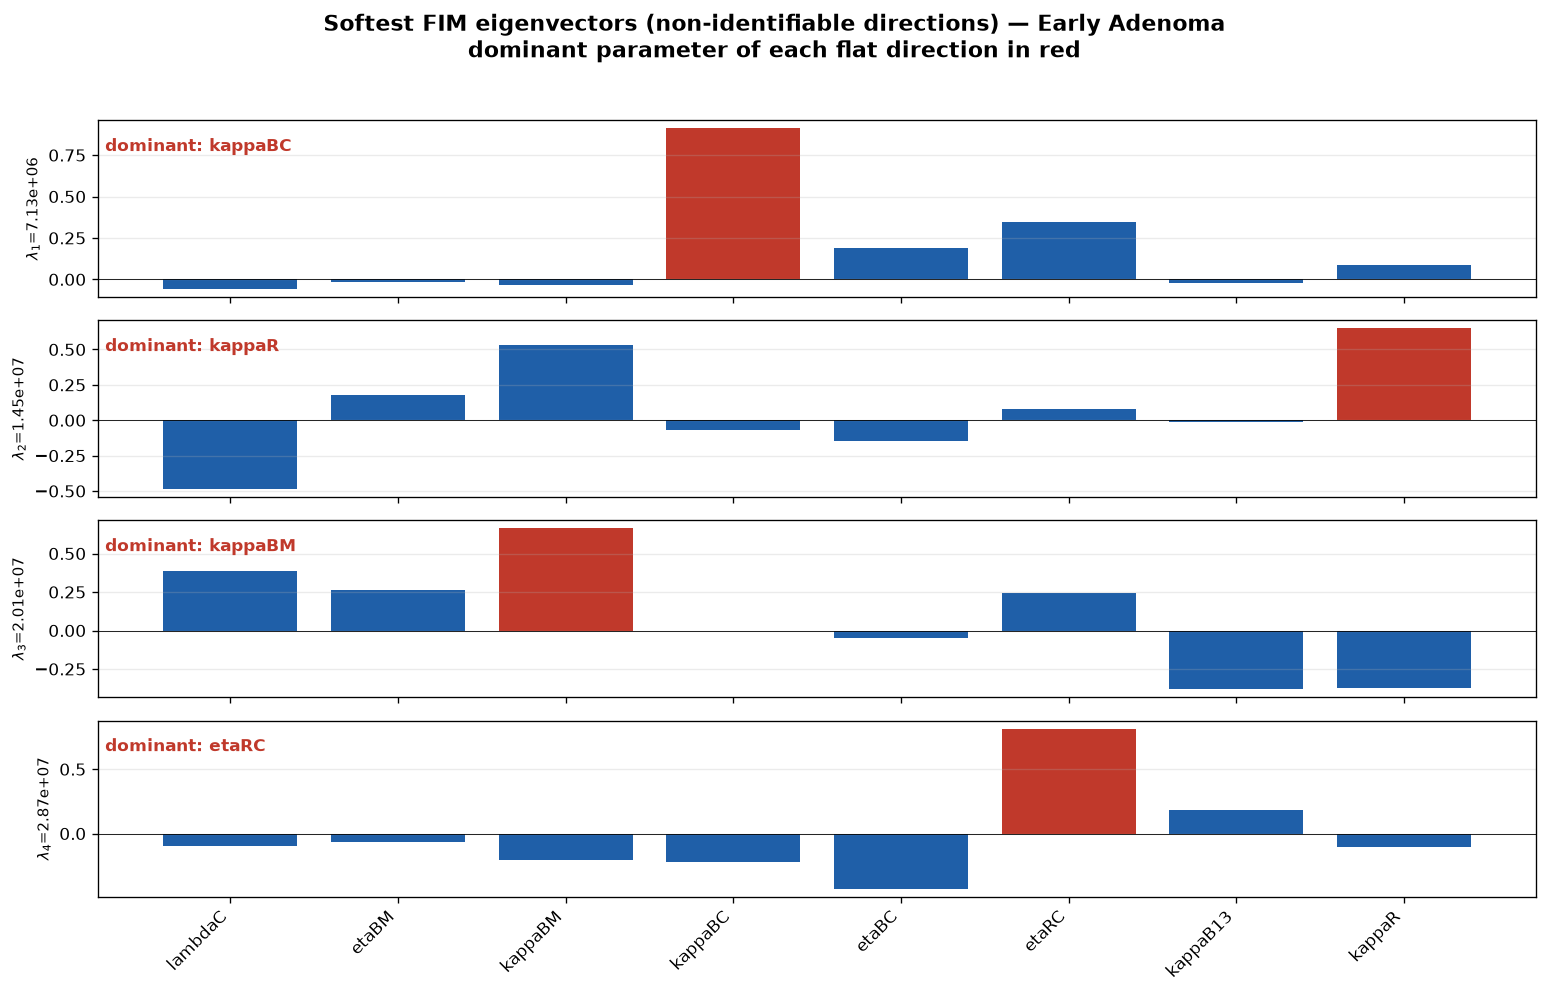
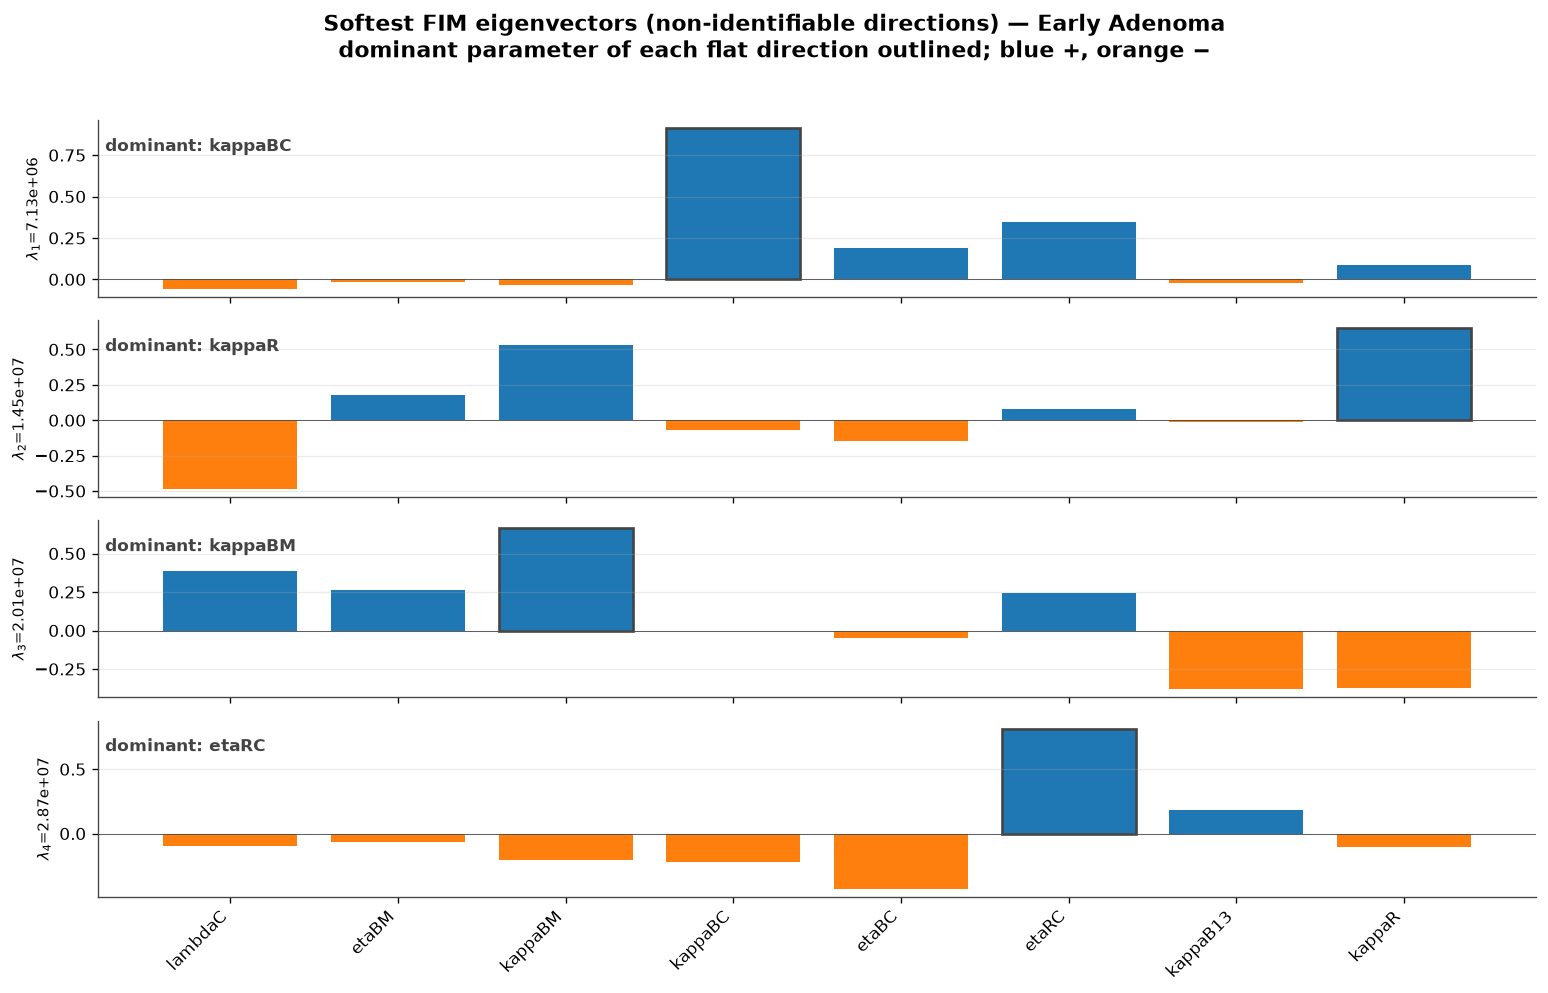
PINN-fisher-matrix-top8: recolor identifiability figures to SA-big palette
Same SA-palette recolor as the full-36 fisher folder (blue IDENT, grey WEAK, orange NON-IDENT; signed eigenvector bars, outlined driver). Regenerated all regime + cross-regime PNGs.

diff --git a/PINN-fisher-matrix-top8/fisher_matrix.py b/PINN-fisher-matrix-top8/fisher_matrix.py
@@ -67,6 +67,19 @@ SIGMA   = 0.002     # measurement noise std (matches recover_odefit / profiling)
 REL_STEP = 1e-3     # central-difference relative perturbation for sensitivities
 K = len(UNKNOWN)
 
+# --- sensitivity-analysis (SA-big) palette — match the professor's SA plots ---
+# defined once in SA-big/run_sa.py & synthesize.py; reused here so the
+# identifiability figures read as the same visual system.
+SA_BLUE, SA_ORANGE, SA_GREY, SA_DARK = "#1f77b4", "#ff7f0e", "#bbbbbb", "#444444"
+# 3-way verdict on the 2-tone SA palette: good=blue, middling=grey, bad=orange.
+VERDICT_COLOR = {"IDENT": SA_BLUE, "WEAK": SA_GREY, "NON-IDENT": SA_ORANGE}
+REGIME_COLORS = [SA_BLUE, SA_ORANGE, "#888888", SA_DARK]
+plt.rcParams.update({
+    "figure.facecolor": "white", "axes.facecolor": "white",
+    "savefig.facecolor": "white", "axes.spines.top": False,
+    "axes.spines.right": False, "axes.edgecolor": "#444444",
+})
+
 
 def solve(p, t_eval):
     sol = solve_ivp(lambda t, y: _ode_rhs(t, y, p), (0.0, T), Y0,
@@ -233,7 +246,7 @@ def plot_regime(regime, safe, FIM, R, evals, part_null, part_soft, verdict, out_
     # (c) eigenvalue spectrum (sloppiness)
     axc = fig.add_subplot(gs[1, 0])
     ev = np.clip(evals[::-1], 1e-30, None)               # descending
-    axc.semilogy(range(1, len(ev) + 1), ev, "o-", color="#1f5fa8", ms=5)
+    axc.semilogy(range(1, len(ev) + 1), ev, "o-", color=SA_BLUE, ms=5)
     axc.axhline(ev[0] * 1e-6, ls="--", color="grey", lw=1)
     axc.text(len(ev), ev[0] * 1e-6, "  cond$^{-1}\\!=10^{6}$ floor",
              va="center", fontsize=9, color="grey")
@@ -247,8 +260,7 @@ def plot_regime(regime, safe, FIM, R, evals, part_null, part_soft, verdict, out_
     axd = fig.add_subplot(gs[1, 1])
     score = part_null + 0.01 * part_soft
     order = np.argsort(-score)                           # worst-constrained first
-    cmap = {"IDENT": "#2c7d3f", "WEAK": "#e08a1e", "NON-IDENT": "#c0392b"}
-    cols = [cmap[v] for v in verdict[order]]
+    cols = [VERDICT_COLOR[v] for v in verdict[order]]
     y = np.arange(K)
     axd.barh(y, part_null[order], color=cols, label="null ($\\lambda<1$)")
     axd.barh(y, part_soft[order], left=part_null[order], color=cols, alpha=0.35,
@@ -257,11 +269,11 @@ def plot_regime(regime, safe, FIM, R, evals, part_null, part_soft, verdict, out_
     axd.set_yticklabels([labels[i] for i in order],
                         fontsize=10 if K <= 12 else 6.5)
     axd.set_xlim(0, 1.02)
-    axd.axvline(0.5, ls="--", color="#c0392b", lw=1)
+    axd.axvline(0.5, ls="--", color=SA_DARK, lw=1)
     axd.set_xlabel("participation in flat subspace  "
                    "$\\sqrt{\\sum_{k\\in\\mathrm{null}} V_{jk}^2}$")
     axd.set_title("(d) Non-identifiable-subspace participation\n"
-                  "green IDENT · orange WEAK · red NON-IDENT",
+                  "blue IDENT · grey WEAK · orange NON-IDENT",
                   fontsize=11, fontweight="bold")
     axd.invert_yaxis()
     axd.grid(alpha=0.3, axis="x")
@@ -269,7 +281,7 @@ def plot_regime(regime, safe, FIM, R, evals, part_null, part_soft, verdict, out_
     if (part_null + part_soft).max() < 1e-3:
         axd.text(0.5, 0.5, "all parameters IDENT\n(no flat / sloppy participation)",
                  transform=axd.transAxes, ha="center", va="center",
-                 fontsize=13, fontweight="bold", color="#2c7d3f")
+                 fontsize=13, fontweight="bold", color=SA_BLUE)
 
     fig.suptitle(f"Fisher-matrix identifiability — regime: {regime}   "
                  f"({K} params · 10 excitation conditions · 7 observed states · "
@@ -290,18 +302,20 @@ def plot_soft_eigvecs(regime, safe, evals, evecs, out_dir, n=4):
         v = evecs[:, k]
         v = v * np.sign(v[np.argmax(np.abs(v))])         # sign convention
         dom = np.argmax(np.abs(v))
-        cols = ["#c0392b" if i == dom else "#1f5fa8" for i in x]
-        ax.bar(x, v, color=cols)
-        ax.axhline(0, color="k", lw=0.5)
+        cols = [SA_BLUE if v[i] >= 0 else SA_ORANGE for i in x]  # sign, SA convention
+        bars = ax.bar(x, v, color=cols)
+        bars[dom].set_edgecolor(SA_DARK)                         # outline the driver
+        bars[dom].set_linewidth(1.6)
+        ax.axhline(0, color=SA_DARK, lw=0.5)
         ax.set_ylabel(f"$\\lambda_{{{k+1}}}$={evals[k]:.2e}", fontsize=9)
         ax.text(0.005, 0.9, f"dominant: {UNKNOWN[dom]}", transform=ax.transAxes,
-                va="top", fontsize=10, fontweight="bold", color="#c0392b")
+                va="top", fontsize=10, fontweight="bold", color=SA_DARK)
         ax.grid(alpha=0.25, axis="y")
     axes[-1].set_xticks(x)
     axes[-1].set_xticklabels(UNKNOWN, rotation=45, ha="right",
                              fontsize=10 if K <= 12 else 6.5)
     fig.suptitle(f"Softest FIM eigenvectors (non-identifiable directions) — "
-                 f"{regime}\ndominant parameter of each flat direction in red",
+                 f"{regime}\ndominant parameter of each flat direction outlined; blue +, orange −",
                  fontsize=13, fontweight="bold")
     fig.tight_layout(rect=(0, 0, 1, 0.96))
     fig.savefig(os.path.join(out_dir, f"{safe}_soft_eigvecs.png"),
@@ -319,7 +333,7 @@ def _tick(ax, labels):
 
 def plot_cross_regime(results, out_dir):
     fig, ax = plt.subplots(figsize=(9, 6))
-    colours = ["#1f5fa8", "#2c7d3f", "#e08a1e", "#c0392b"]
+    colours = REGIME_COLORS
     for res, col in zip(results, colours):
         ev = np.clip(res["evals"][::-1], 1e-30, None)
         ax.semilogy(range(1, len(ev) + 1), ev, "o-", ms=4, color=col,
